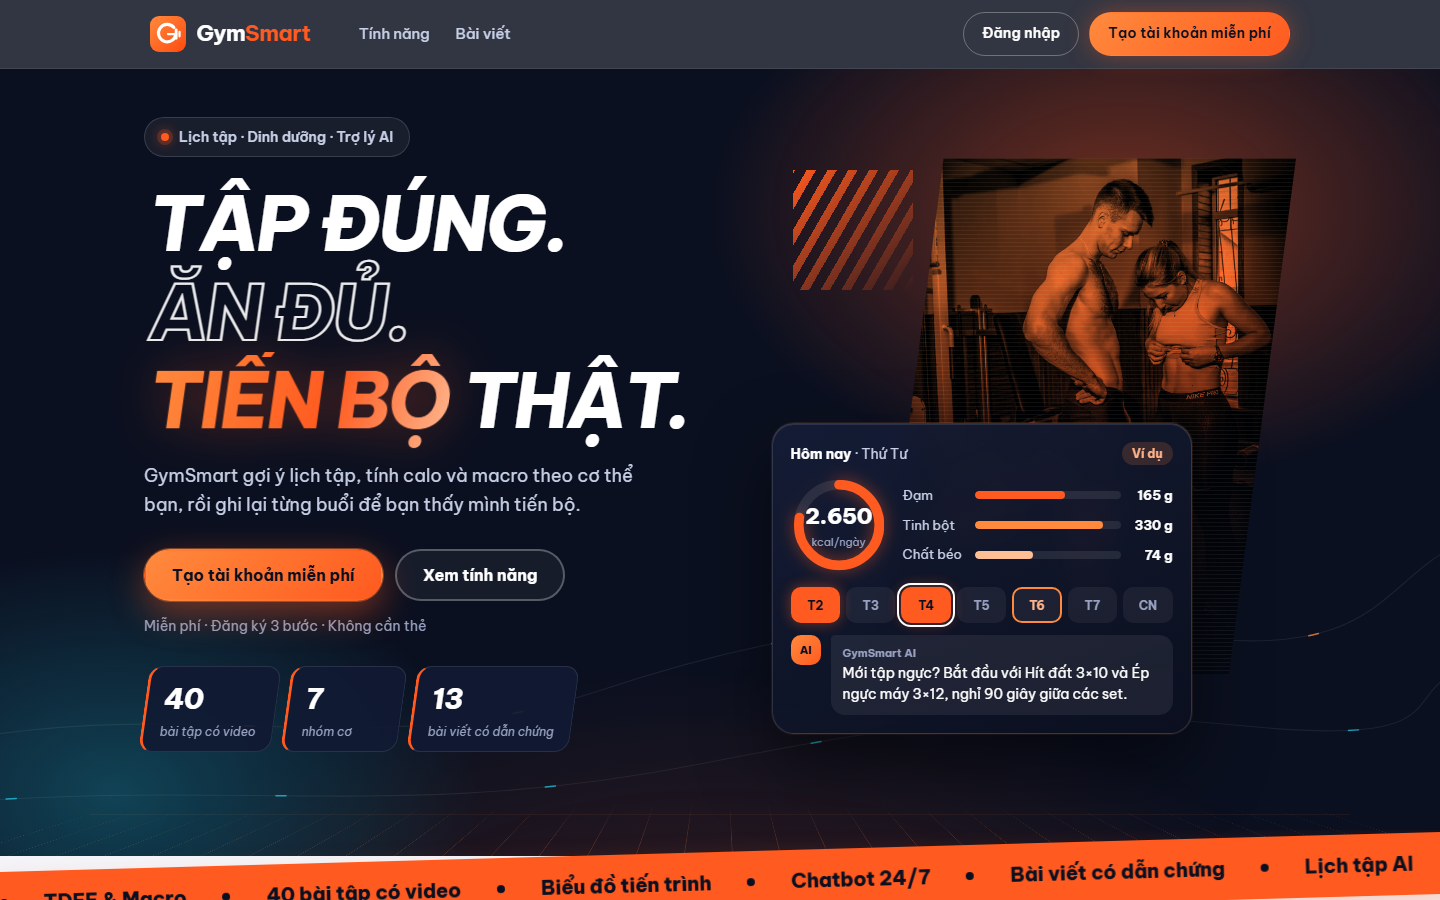
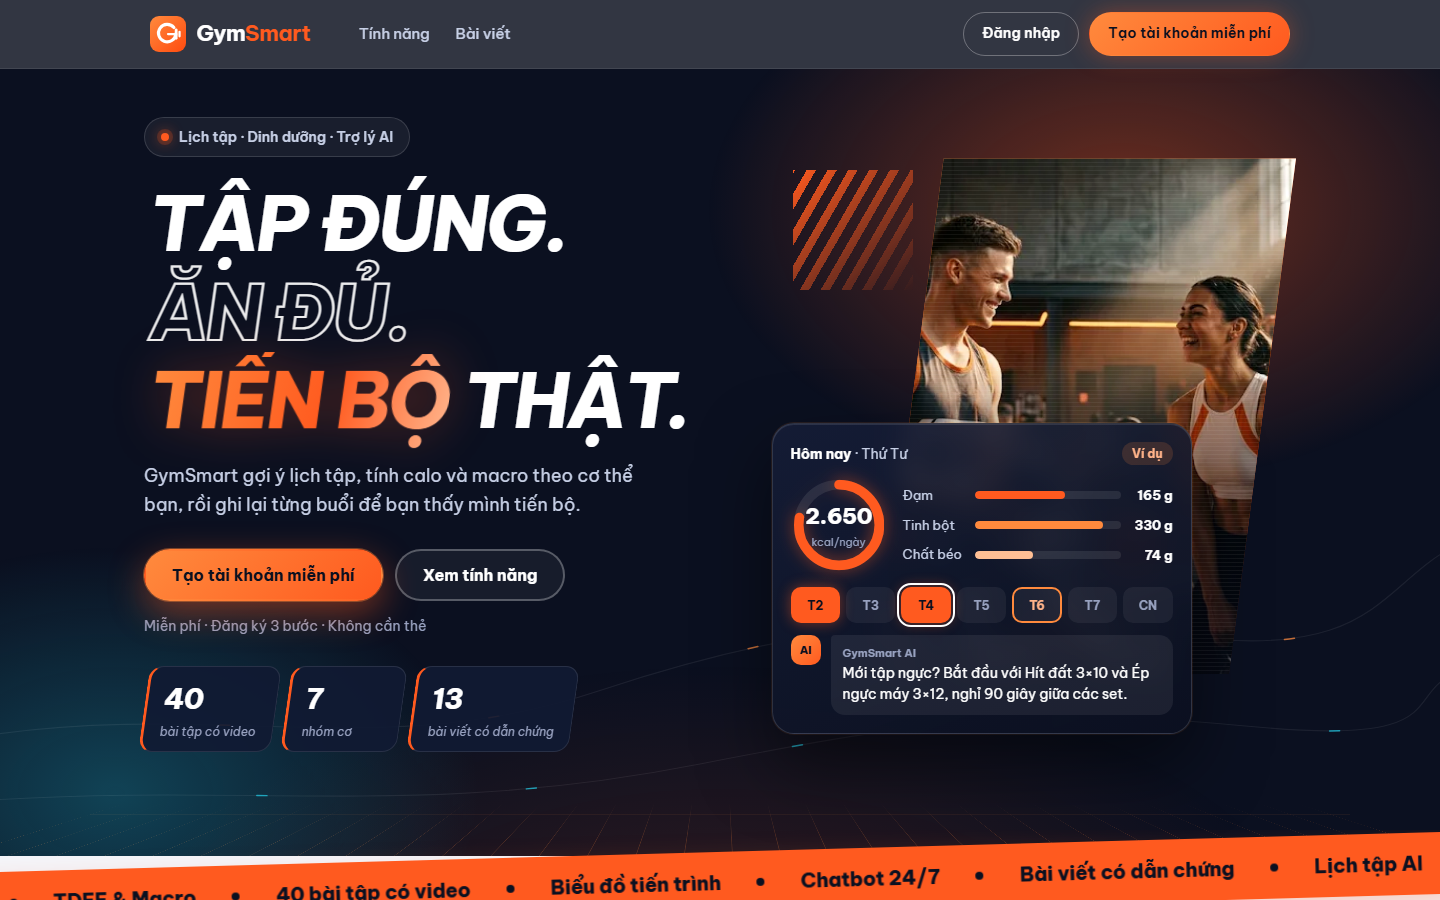
Ảnh hero: dùng ảnh nhóm cung cấp (ảnh tạo bằng AI, cặp nam nữ trong phòng gym), giữ màu gốc, bỏ ảnh Pexels, ghi nguồn CREDITS

Changed region(s): [[0.625, 0.1556, 0.9062, 0.7156], [0.0, 0.9333, 0.875, 1.0], [0.9062, 0.9333, 1.0, 0.9956]]

diff --git a/public/css/home-guest.css b/public/css/home-guest.css
@@ -105,7 +105,7 @@ body:has(.gh-hero) :is(a, button, input, select):focus-visible { outline: 3px so
 /* Ảnh cắt hình bình hành, nhuộm hai tông cam/đen, phủ vạch quét kiểu màn hình */
 .gh-stage__photo { position: absolute; top: 24px; right: 0; width: 80%; height: 86%; z-index: 1; overflow: hidden;
     clip-path: polygon(16% 0, 100% 0, 84% 100%, 0 100%); background: linear-gradient(160deg, var(--accent-2), var(--accent) 55%, var(--ink-2)); }
-.gh-stage__photo img { display: block; width: 100%; height: 100%; object-fit: cover; object-position: 50% 8%; filter: grayscale(1) contrast(1.15); mix-blend-mode: multiply; }
+.gh-stage__photo img { display: block; width: 100%; height: 100%; object-fit: cover; object-position: 50% 20%; filter: saturate(1.05) contrast(1.05); }   /* ảnh đã sẵn tông cam/tối nên giữ màu gốc, không nhuộm */
 .gh-stage__photo::after { content: ""; position: absolute; inset: 0; background: linear-gradient(180deg, transparent 40%, rgba(7, 11, 24, .75)); }
 .gh-stage__scan { position: absolute; inset: 0; z-index: 1; background: repeating-linear-gradient(180deg, rgba(255, 255, 255, .06) 0 1px, transparent 1px 4px); pointer-events: none; }
 /* Vạch tốc độ chéo */

diff --git a/public/includes/home-guest.php b/public/includes/home-guest.php
@@ -43,11 +43,11 @@ $ghArticles  = (int)$guestStats['sourcedArticles'];
         </div>
 
         <div class="gh-stage" id="gh-stage">
-            <!-- Ảnh trang trí: alt rỗng. Ảnh màn hình đầu: không lazy-load, tải ưu tiên. Nguồn ảnh (Pexels License): assets/img/CREDITS.md -->
+            <!-- Ảnh trang trí: alt rỗng. Ảnh màn hình đầu: không lazy-load, tải ưu tiên. Nguồn ảnh (ảnh nhóm cung cấp): assets/img/CREDITS.md -->
             <div class="gh-stage__photo" aria-hidden="true">
                 <picture>
-                    <source type="image/webp" srcset="/assets/img/hero/hero-pair-800.webp" width="800" height="1000">
-                    <img src="/assets/img/hero/hero-pair-800.jpg" alt="" width="800" height="1000" fetchpriority="high" decoding="async">
+                    <source type="image/webp" srcset="/assets/img/hero/hero-duo.webp" width="450" height="492">
+                    <img src="/assets/img/hero/hero-duo.jpg" alt="" width="450" height="492" fetchpriority="high" decoding="async">
                 </picture>
                 <span class="gh-stage__scan"></span>
             </div>

diff --git a/public/assets/img/CREDITS.md b/public/assets/img/CREDITS.md
@@ -12,13 +12,11 @@
 | Ngày tải | 01/11/2026 |
 | Đã chỉnh sửa | Lật ngang để người tập nằm bên phải, cắt khung, đổi kích thước và nén sang WebP/JPG |
 
-## `hero/hero-pair-800.webp`, `hero-pair-800.jpg` (ảnh hero trang chủ khách từ 11/2026)
+## `hero/hero-duo.webp`, `hero-duo.jpg` (ảnh hero trang chủ khách từ 18/11/2026)
 
 | | |
 |---|---|
-| Tác giả | Andrej Klintsy ([pexels.com/@andrej-klintsy-3607566](https://www.pexels.com/@andrej-klintsy-3607566/)) |
-| Nguồn | [Pexels: A Man and Woman Standing Together while Looking at their Abs](https://www.pexels.com/photo/a-man-and-woman-standing-together-while-looking-at-their-abs-6392829/) |
-| Giấy phép | [Pexels License](https://www.pexels.com/license/): dùng và chỉnh sửa miễn phí, không bắt buộc ghi công. Không được bán lại ảnh khi chưa chỉnh sửa, không được dùng để gợi ý người trong ảnh ủng hộ sản phẩm |
-| Ngày tải | 18/11/2026 |
-| Đã chỉnh sửa | Cắt khung 4:5, đổi kích thước 800×1000, nén WebP/JPG; trên trang còn được CSS nhuộm hai tông cam/đen |
-| Ghi chú | Người mẫu ảnh stock, không phải người nổi tiếng. Trang không ghi tên hay lời trích nào của người trong ảnh |
+| Nguồn | Ảnh do nhóm cung cấp ngày 18/11/2026 |
+| Loại ảnh | Ảnh **tạo bằng AI** (ảnh gốc có biểu tượng ✦ của công cụ tạo ảnh ở góc phải dưới và chữ neon vô nghĩa trên tường). Người trong ảnh không phải người thật, không phải người nổi tiếng |
+| Đã chỉnh sửa | Cắt khung đứng 450×492 quanh hai người (bỏ phần chữ neon bên trái và góc phải), nén WebP/JPG; giữ màu gốc |
+| Ghi chú | Khi bảo vệ nên nói rõ đây là ảnh minh họa tạo bằng AI. Trang không ghi tên hay lời trích nào của người trong ảnh |

diff --git a/docs/UI_UX_PROMPT.md b/docs/UI_UX_PROMPT.md
@@ -123,7 +123,7 @@ Quy tắc màu:
 ## 7. Quy định theo trang
 
 - **Trang chủ khách (hướng "Future sport", 11/2026):**
-  - Hero nền tối `--ink` (ngoại lệ duy nhất): lưới sàn phối cảnh, quầng sáng cam và `--glow-cool`, tiêu đề viết hoa nghiêng từng dòng (dòng giữa chỉ có viền, có dự phòng chữ đặc), dải số liệu THẬT (số bài tập, nhóm cơ, bài viết có dẫn chứng). Bên phải: ảnh gym cắt hình bình hành nhuộm cam/đen có vạch quét (nguồn ghi trong `public/assets/img/CREDITS.md`) và **một** bảng điều khiển kính tối có nhãn "Ví dụ".
+  - Hero nền tối `--ink` (ngoại lệ duy nhất): lưới sàn phối cảnh, quầng sáng cam và `--glow-cool`, tiêu đề viết hoa nghiêng từng dòng (dòng giữa chỉ có viền, có dự phòng chữ đặc), dải số liệu THẬT (số bài tập, nhóm cơ, bài viết có dẫn chứng). Bên phải: ảnh gym tông cam/tối cắt hình bình hành có vạch quét (nguồn ghi trong `public/assets/img/CREDITS.md`) và **một** bảng điều khiển kính tối có nhãn "Ví dụ".
   - Không dùng ảnh người nổi tiếng/influencer: vừa vướng bản quyền, vừa khiến người xem hiểu nhầm là họ quảng cáo cho GymSmart.
   - Nút cam dùng chữ `--ink` (chữ trắng trên `#ff5a1f` chỉ đạt 3,12:1).
   - Bên dưới: dải từ khóa chạy ngang, công cụ tính calo (tính trong trình duyệt), lưới bento, 3 bước, chatbot mẫu, bài viết thật, kêu gọi cuối trang nền cam; mọi khối nền sáng.
